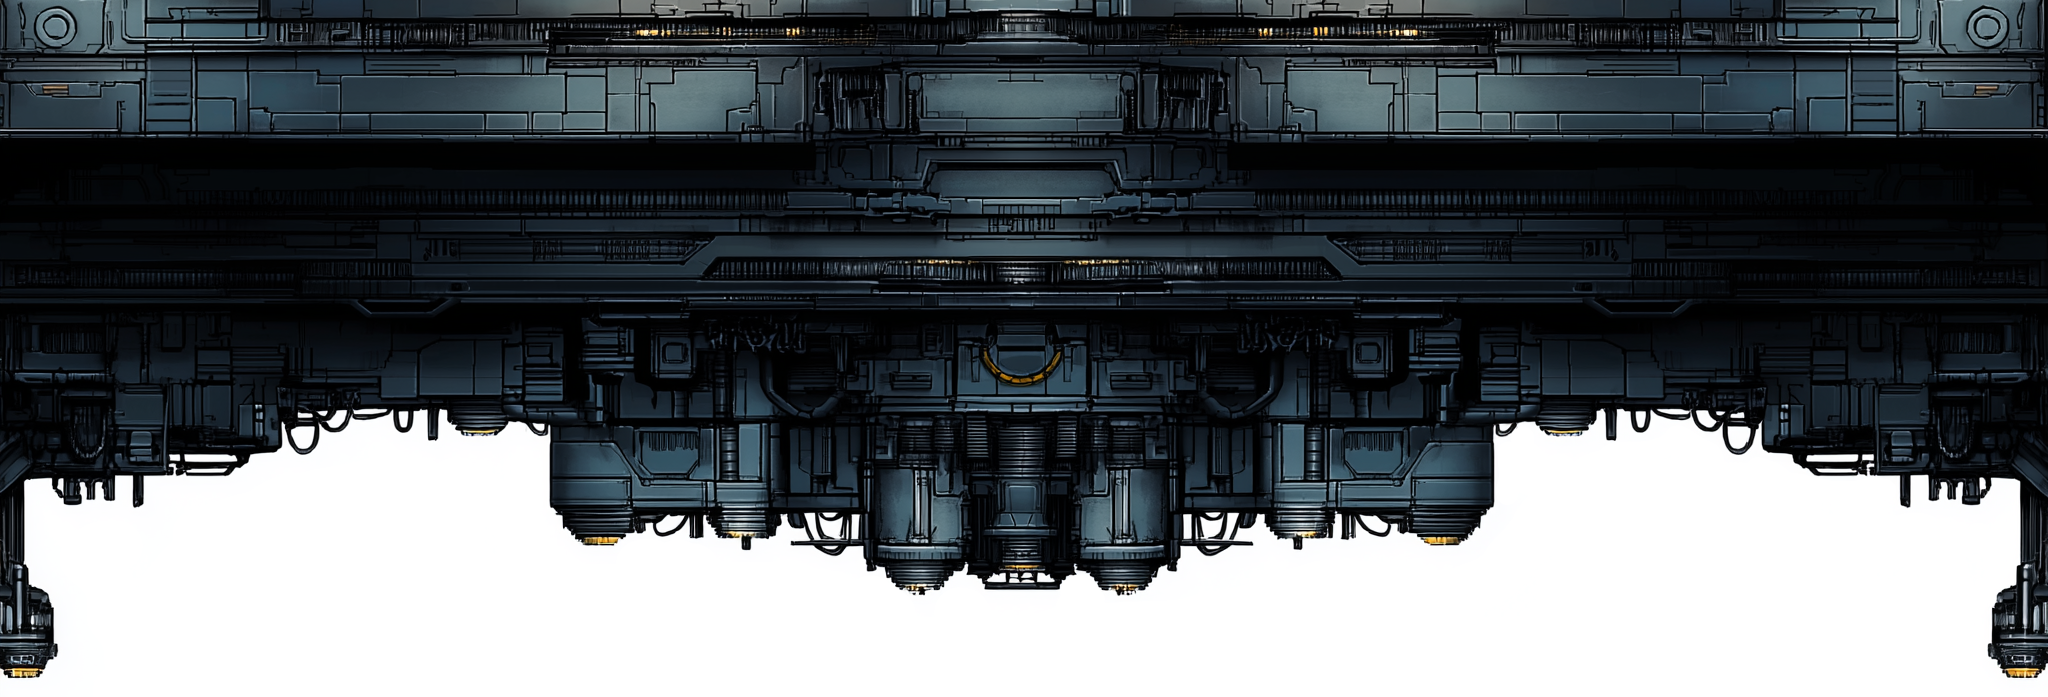
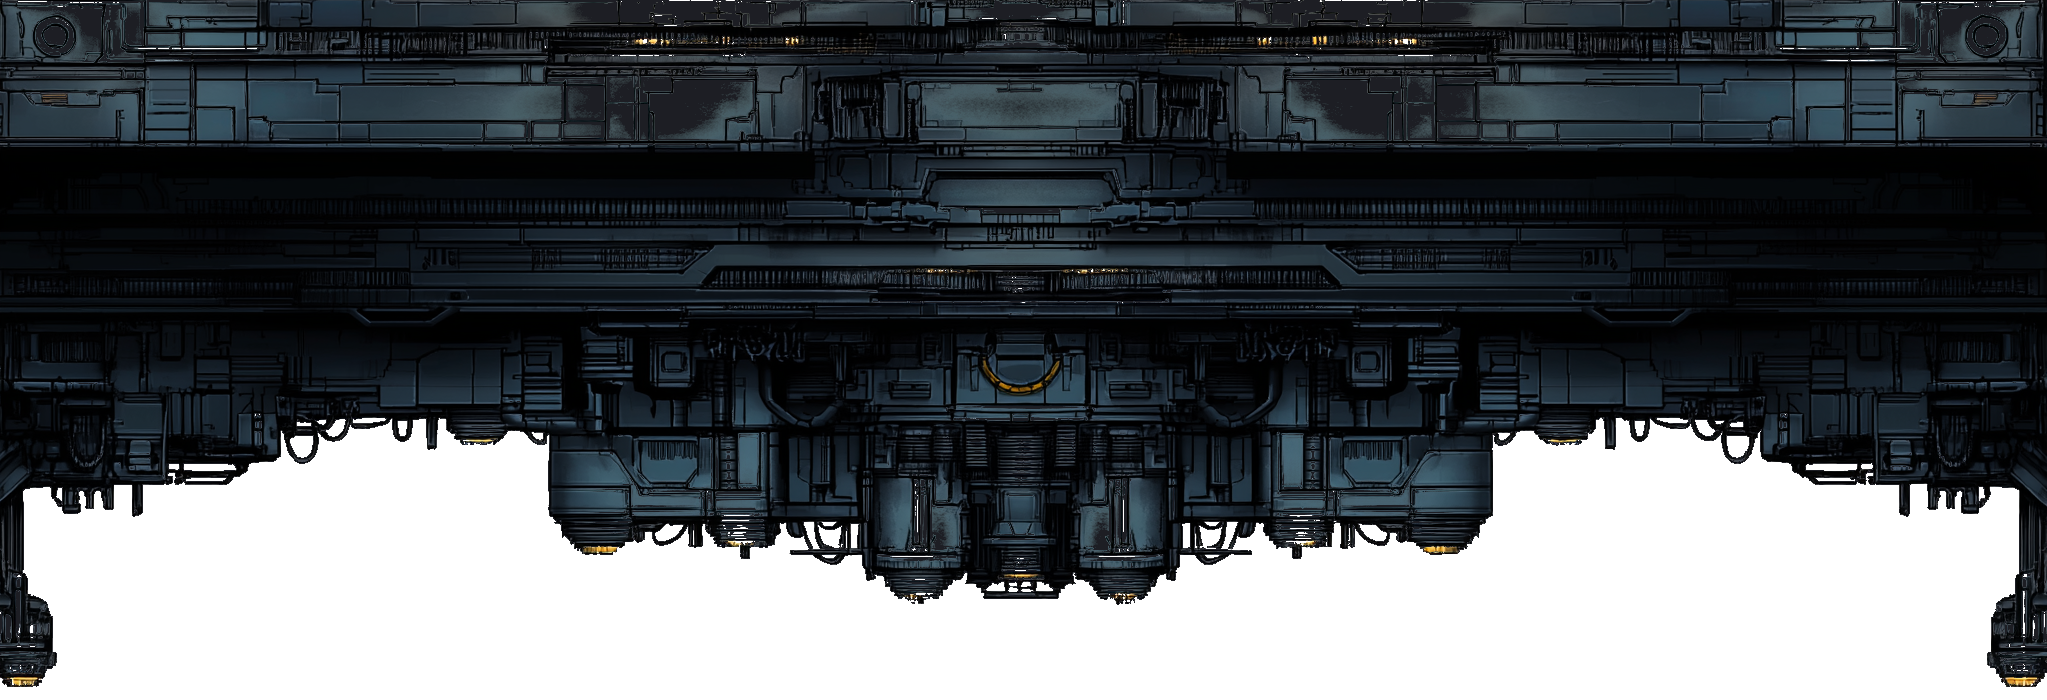
mothership mal foutu

diff --git a/src/gatling.rs b/src/gatling.rs
@@ -64,8 +64,9 @@ const GATLING_ENTERING_DISTANCE: f32 = 900.0;
 /// Taille du sprite Gatling (pixels).
 const GATLING_SPRITE_SIZE: f32 = 128.0;
 
-/// Espacement entre les Gatlings le long de l'axe perpendiculaire (pixels).
-const GATLING_SPACING: f32 = 200.0;
+/// Position des tourelles sur l'axe de profondeur du mothership.
+/// 0.0 = centre, 0.5 = bord inférieur (côté joueur), -0.5 = bord supérieur.
+const GATLING_DEPTH_RATIO: f32 = 0.2;
 /// Vitesse de recul du Mothership pendant la mort (pixels/seconde).
 const MOTHERSHIP_DYING_SPEED: f32 = 100.0;
 
@@ -73,9 +74,9 @@ const MOTHERSHIP_DYING_SPEED: f32 = 100.0;
 // Axe principal = perpendiculaire au bord d'entrée (gauche↔droite pour Top/Bottom).
 // Axe secondaire = parallèle au bord d'entrée (haut↔bas pour Top/Bottom).
 /// Amplitude du flottement principal (pixels).
-const MOTHERSHIP_DRIFT_MAIN_AMP: f32 = 60.0;
+const MOTHERSHIP_DRIFT_MAIN_AMP: f32 = 460.0;
 /// Amplitude du flottement secondaire (pixels).
-const MOTHERSHIP_DRIFT_MINOR_AMP: f32 = 15.0;
+const MOTHERSHIP_DRIFT_MINOR_AMP: f32 = 100.0;
 /// Fréquence du flottement principal (rad/s). Plus haut = plus rapide.
 const MOTHERSHIP_DRIFT_MAIN_FREQ: f32 = 0.5;
 /// Fréquence du flottement secondaire (rad/s).
@@ -430,8 +431,7 @@ fn preload_gatling_frames(mut commands: Commands, asset_server: Res<AssetServer>
 /// `n` = nombre de gatlings, `ms_size` = taille du mothership (convention Top),
 /// `screen_span` = largeur (ou hauteur) de l'écran pour clamper les positions.
 fn compute_gatling_offsets(n: usize, ms_size: Vec2, screen_span: f32) -> Vec<Vec2> {
-    // Gatlings proches du bord inférieur du mothership, remontés de 30%
-    let depth_y = -(ms_size.y * 0.2);
+    let depth_y = -(ms_size.y * GATLING_DEPTH_RATIO);
     if n == 0 {
         return Vec::new();
     }
@@ -486,7 +486,7 @@ fn spawn_mothership_oneshot(
     let mothership_entity = commands
         .spawn((
             SpriteBundle {
-                texture: asset_server.load("images/mothership/mothership.png"),
+                texture: asset_server.load("images/mothership/mothership_2.png"),
                 sprite: Sprite {
                     custom_size: Some(ms_size),
                     ..default()
@@ -832,7 +832,10 @@ fn mothership_dying(
         sprite.color.set_a(0.8 * (1.0 - progress));
 
         // Hors de l'écran → despawn
-        if mothership.edge.is_offscreen(transform.translation, half_w, half_h) {
+        if mothership
+            .edge
+            .is_offscreen(transform.translation, half_w, half_h)
+        {
             if let Some(e) = commands.get_entity(entity) {
                 e.despawn_recursive();
             }
@@ -922,8 +925,18 @@ fn gatling_pattern_executor(
     >,
     player_q: Query<&Transform, (With<Player>, Without<GatlingMarker>)>,
 ) {
-    for (entity, enemy, transform, base_edge, mut pattern_timer, mut pat_idx, mut texture, override_opt, shoot_opt, full_auto_opt) in
-        gatling_q.iter_mut()
+    for (
+        entity,
+        enemy,
+        transform,
+        base_edge,
+        mut pattern_timer,
+        mut pat_idx,
+        mut texture,
+        override_opt,
+        shoot_opt,
+        full_auto_opt,
+    ) in gatling_q.iter_mut()
     {
         let phase_idx = match &enemy.state {
             EnemyState::Active(idx) => *idx,
@@ -983,8 +996,8 @@ fn gatling_pattern_executor(
 
                 // Direction vers le joueur
                 let aim_dir = if let Ok(player_transform) = player_q.get_single() {
-                    let diff = player_transform.translation.truncate()
-                        - transform.translation.truncate();
+                    let diff =
+                        player_transform.translation.truncate() - transform.translation.truncate();
                     if diff.length_squared() > 0.01 {
                         diff.normalize()
                     } else {
@@ -1011,7 +1024,10 @@ fn gatling_pattern_executor(
                     current_angle: prev_angle,
                     elapsed: 0.0,
                     duration: pattern_duration,
-                    anim_timer: Timer::from_seconds(GATLING_SHOOT_ANIM_INTERVAL, TimerMode::Repeating),
+                    anim_timer: Timer::from_seconds(
+                        GATLING_SHOOT_ANIM_INTERVAL,
+                        TimerMode::Repeating,
+                    ),
                     current_frame: 0,
                     fired: false,
                     anim_started: false,
@@ -1030,9 +1046,15 @@ fn gatling_pattern_executor(
                     startup_delay: delay,
                     elapsed: 0.0,
                     duration: pattern_duration,
-                    fire_timer: Timer::from_seconds(FULL_AUTO_FIRE_INTERVAL_START, TimerMode::Repeating),
+                    fire_timer: Timer::from_seconds(
+                        FULL_AUTO_FIRE_INTERVAL_START,
+                        TimerMode::Repeating,
+                    ),
                     anim_frame: None,
-                    anim_timer: Timer::from_seconds(FULL_AUTO_SHOOT_ANIM_INTERVAL, TimerMode::Repeating),
+                    anim_timer: Timer::from_seconds(
+                        FULL_AUTO_SHOOT_ANIM_INTERVAL,
+                        TimerMode::Repeating,
+                    ),
                 });
             }
             "idle" => {
@@ -1082,13 +1104,17 @@ fn gatling_shoot_update(
             let base_atan2 = cannon_dir.y.atan2(cannon_dir.x);
 
             if let Ok(player_transform) = player_q.get_single() {
-                let diff = player_transform.translation.truncate()
-                    - transform.translation.truncate();
+                let diff =
+                    player_transform.translation.truncate() - transform.translation.truncate();
                 if diff.length_squared() > 0.01 {
                     let aim_atan2 = diff.y.atan2(diff.x);
                     let mut relative = aim_atan2 - base_atan2;
-                    while relative > std::f32::consts::PI { relative -= std::f32::consts::TAU; }
-                    while relative < -std::f32::consts::PI { relative += std::f32::consts::TAU; }
+                    while relative > std::f32::consts::PI {
+                        relative -= std::f32::consts::TAU;
+                    }
+                    while relative < -std::f32::consts::PI {
+                        relative += std::f32::consts::TAU;
+                    }
                     shoot.target_angle = relative.clamp(-max_rad, max_rad);
                 }
             }
@@ -1106,7 +1132,8 @@ fn gatling_shoot_update(
             if shoot.elapsed >= anim_start_time {
                 shoot.anim_started = true;
                 shoot.current_frame = 0;
-                shoot.anim_timer = Timer::from_seconds(GATLING_SHOOT_ANIM_INTERVAL, TimerMode::Repeating);
+                shoot.anim_timer =
+                    Timer::from_seconds(GATLING_SHOOT_ANIM_INTERVAL, TimerMode::Repeating);
             }
         } else {
             // Animation de tir
@@ -1133,8 +1160,7 @@ fn gatling_shoot_update(
 
                 // Bout du canon : anchor au sommet, le sprite s'étend de SPRITE_SIZE
                 // dans la direction du canon
-                let cannon_tip = transform.translation.truncate()
-                    + shoot_dir * GATLING_SPRITE_SIZE;
+                let cannon_tip = transform.translation.truncate() + shoot_dir * GATLING_SPRITE_SIZE;
 
                 commands.spawn((
                     SpriteBundle {
@@ -1219,7 +1245,8 @@ fn gatling_full_auto_update(
         // Intervalle de tir interpolé
         let fire_interval = FULL_AUTO_FIRE_INTERVAL_START
             + (FULL_AUTO_FIRE_INTERVAL_MIN - FULL_AUTO_FIRE_INTERVAL_START) * ramp;
-        auto.fire_timer.set_duration(std::time::Duration::from_secs_f32(fire_interval.max(0.05)));
+        auto.fire_timer
+            .set_duration(std::time::Duration::from_secs_f32(fire_interval.max(0.05)));
 
         // ── Balayage ping-pong ──
         auto.current_angle += auto.sweep_dir * sweep_rad;
@@ -1257,7 +1284,8 @@ fn gatling_full_auto_update(
         if auto.fire_timer.just_finished() {
             // Lancer l'animation de tir
             auto.anim_frame = Some(0);
-            auto.anim_timer = Timer::from_seconds(FULL_AUTO_SHOOT_ANIM_INTERVAL, TimerMode::Repeating);
+            auto.anim_timer =
+                Timer::from_seconds(FULL_AUTO_SHOOT_ANIM_INTERVAL, TimerMode::Repeating);
             if let Some(f) = frames.0.first() {
                 *texture = f.clone();
             }
@@ -1269,8 +1297,7 @@ fn gatling_full_auto_update(
             let shoot_dir = Vec2::new(shoot_dir_3.x, shoot_dir_3.y);
 
             // Bout du canon
-            let cannon_tip = transform.translation.truncate()
-                + shoot_dir * GATLING_SPRITE_SIZE;
+            let cannon_tip = transform.translation.truncate() + shoot_dir * GATLING_SPRITE_SIZE;
 
             commands.spawn((
                 SpriteBundle {
